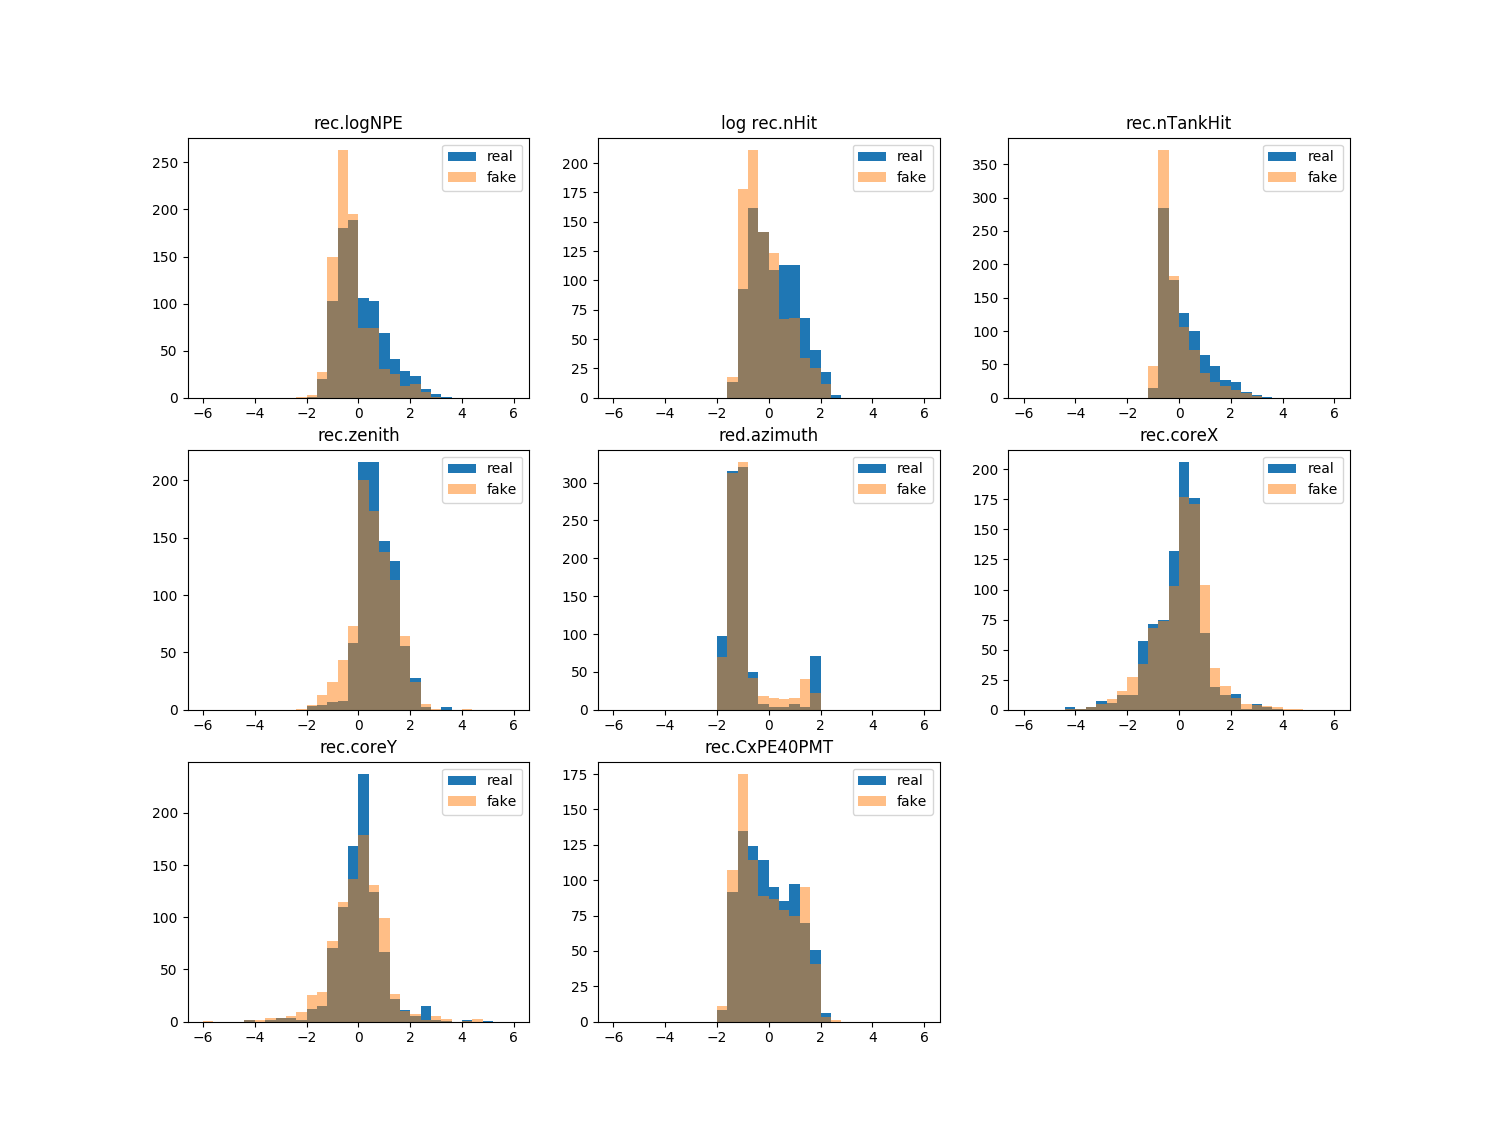
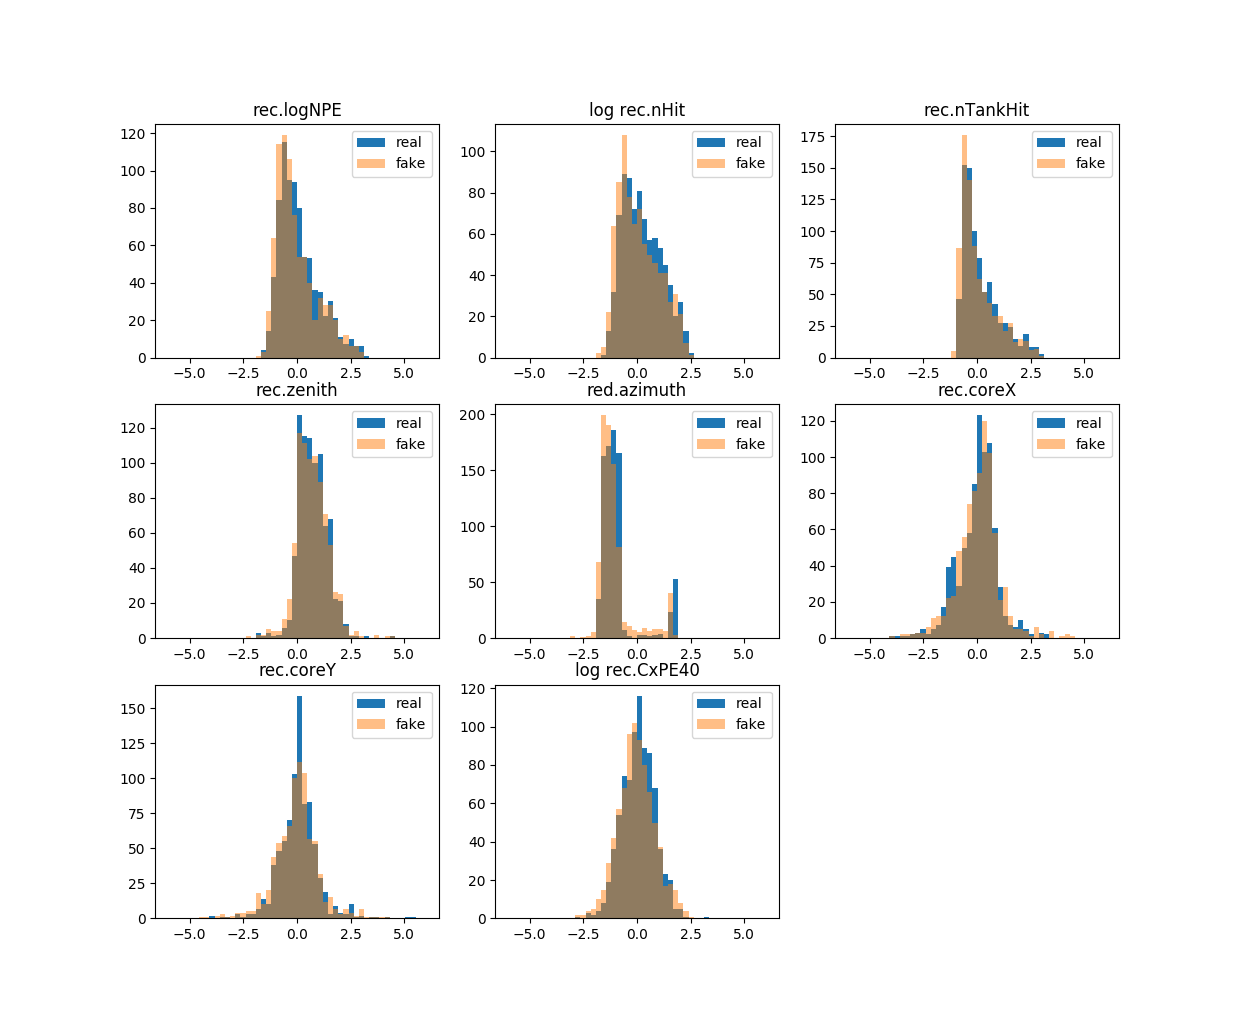
added updated 1D gan images and updated readme

diff --git a/README.md b/README.md
@@ -80,6 +80,10 @@ We also passed input values from the simulation directly to the generative model
 
 <img src="./plots/1DGAN/1dgan_reallabels.png" width="600px"/>
 
+Differences here, especially in the distributions with hard cutoffs, comes from a combination of using only gaussians as the input entropy source, and training time.  
+
+This model was trained to near completion in less than an hour on a GTX 1080 Ti
+
 ### 2D Distribution Generation with WGANs
 
 
